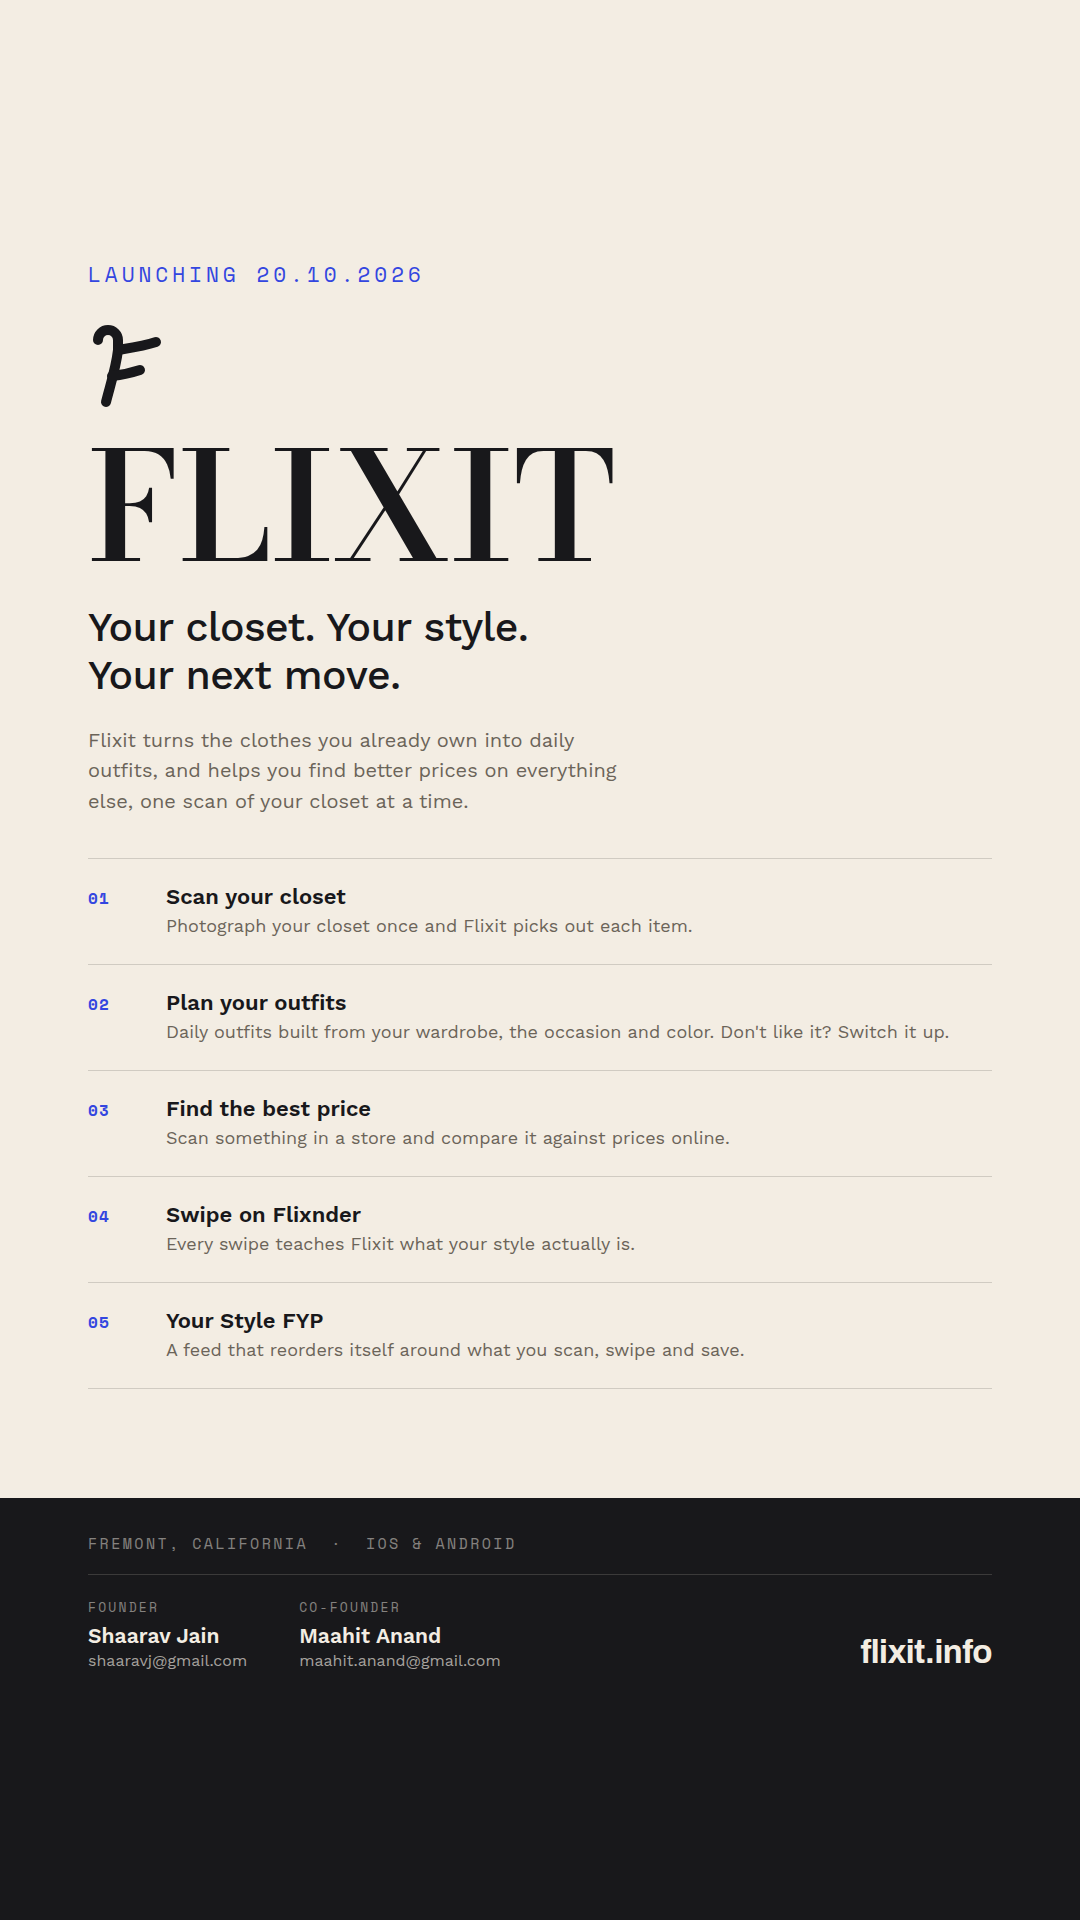
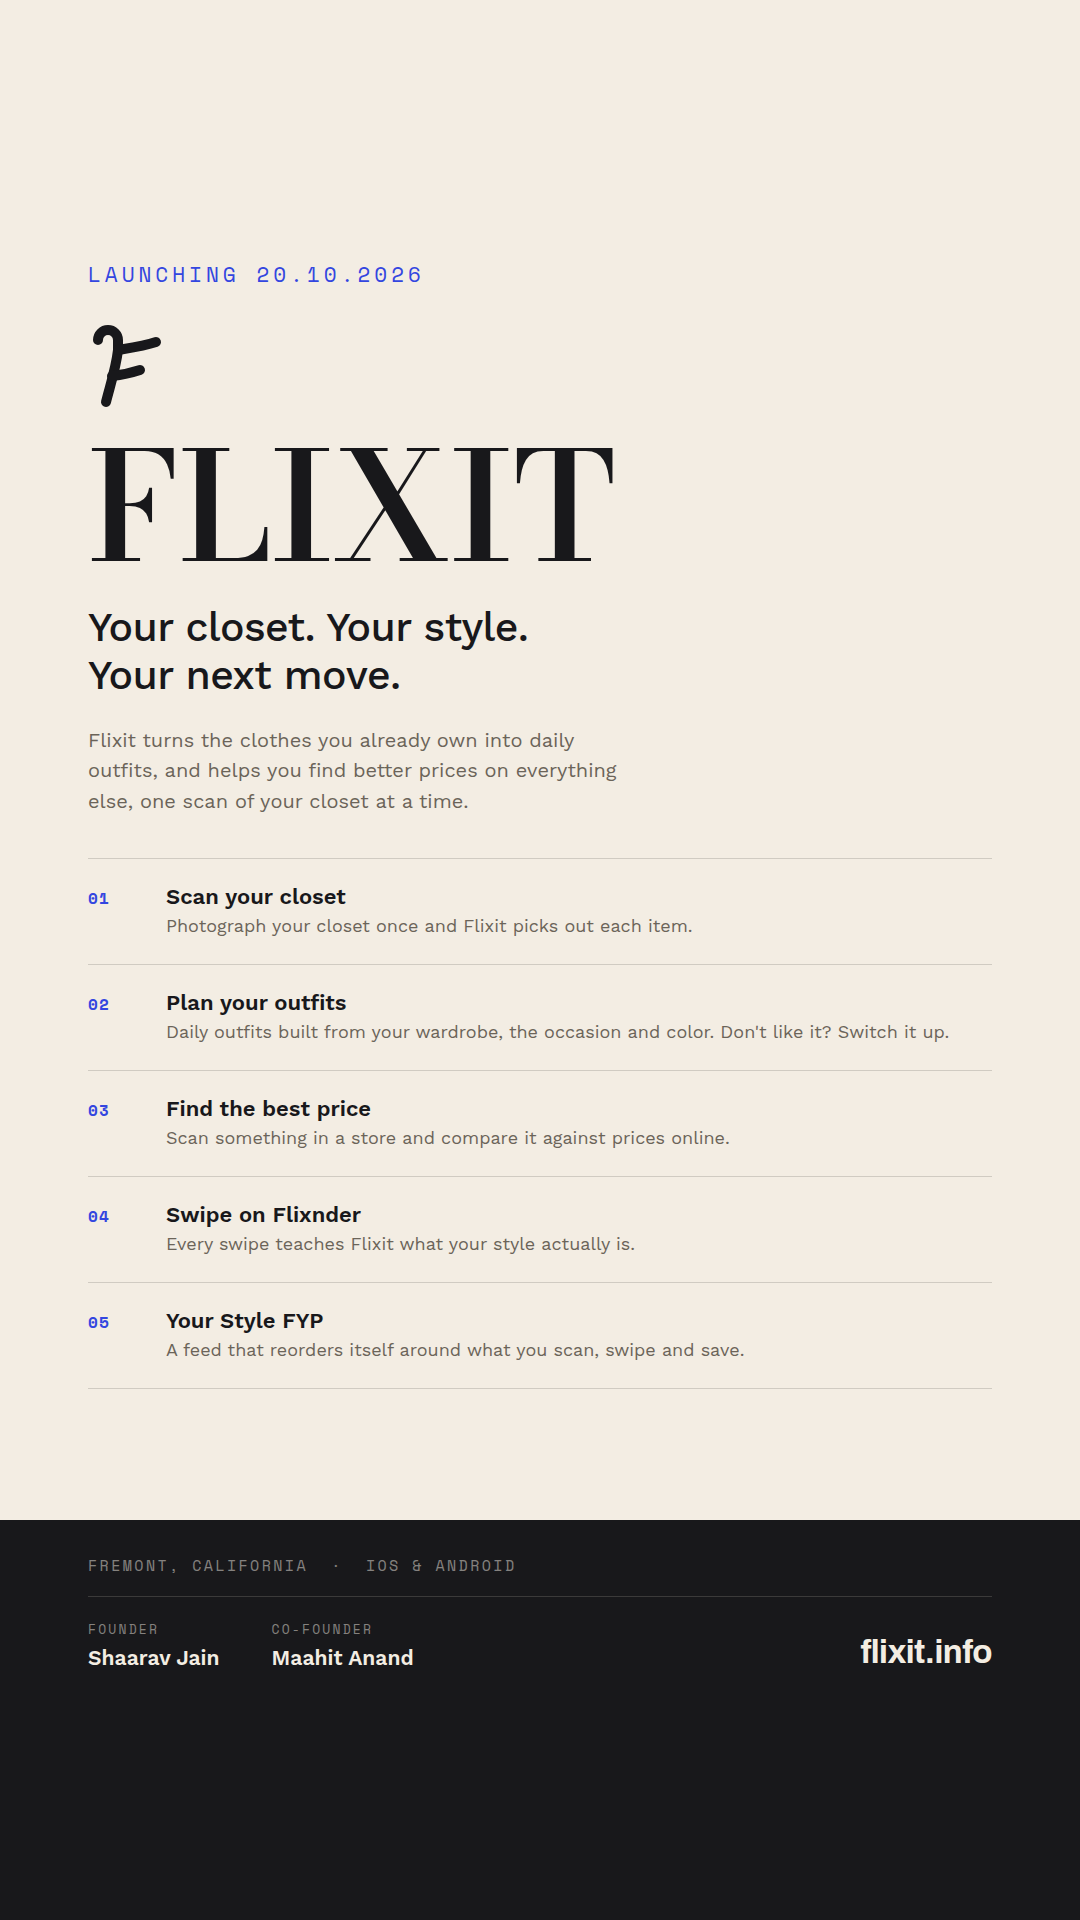
Drop emails from the story flyer
Story text cannot be copied or tapped, and at story scale a 16px address
is unreadable on a phone, so the emails were taking up the footer without
doing anything. Names stay, since they carry the credibility, and the
link sticker handles getting in touch.

Claude-Session: https://claude.ai/code/session_01FWbwBvARFQ9nfziyApassK

Changed region(s): [[0.0, 0.7812, 1.0, 0.875]]

diff --git a/brand/flyer-story.html b/brand/flyer-story.html
@@ -116,8 +116,7 @@
     margin-bottom: 6px;
   }
   .who .name { font-size: 21px; font-weight: 600; }
-  .who .mail { font-size: 16px; color: rgba(243, 237, 227, 0.66); margin-top: 3px; }
-  .url {
+    .url {
     font-family: "Archivo", sans-serif;
     font-weight: 700;
     font-size: 33px;
@@ -187,12 +186,10 @@
       <div class="who">
         <p class="role">FOUNDER</p>
         <p class="name">Shaarav Jain</p>
-        <p class="mail">shaaravj@gmail.com</p>
       </div>
       <div class="who">
         <p class="role">CO-FOUNDER</p>
         <p class="name">Maahit Anand</p>
-        <p class="mail">maahit.anand@gmail.com</p>
       </div>
     </div>
     <p class="url">flixit.info</p>
